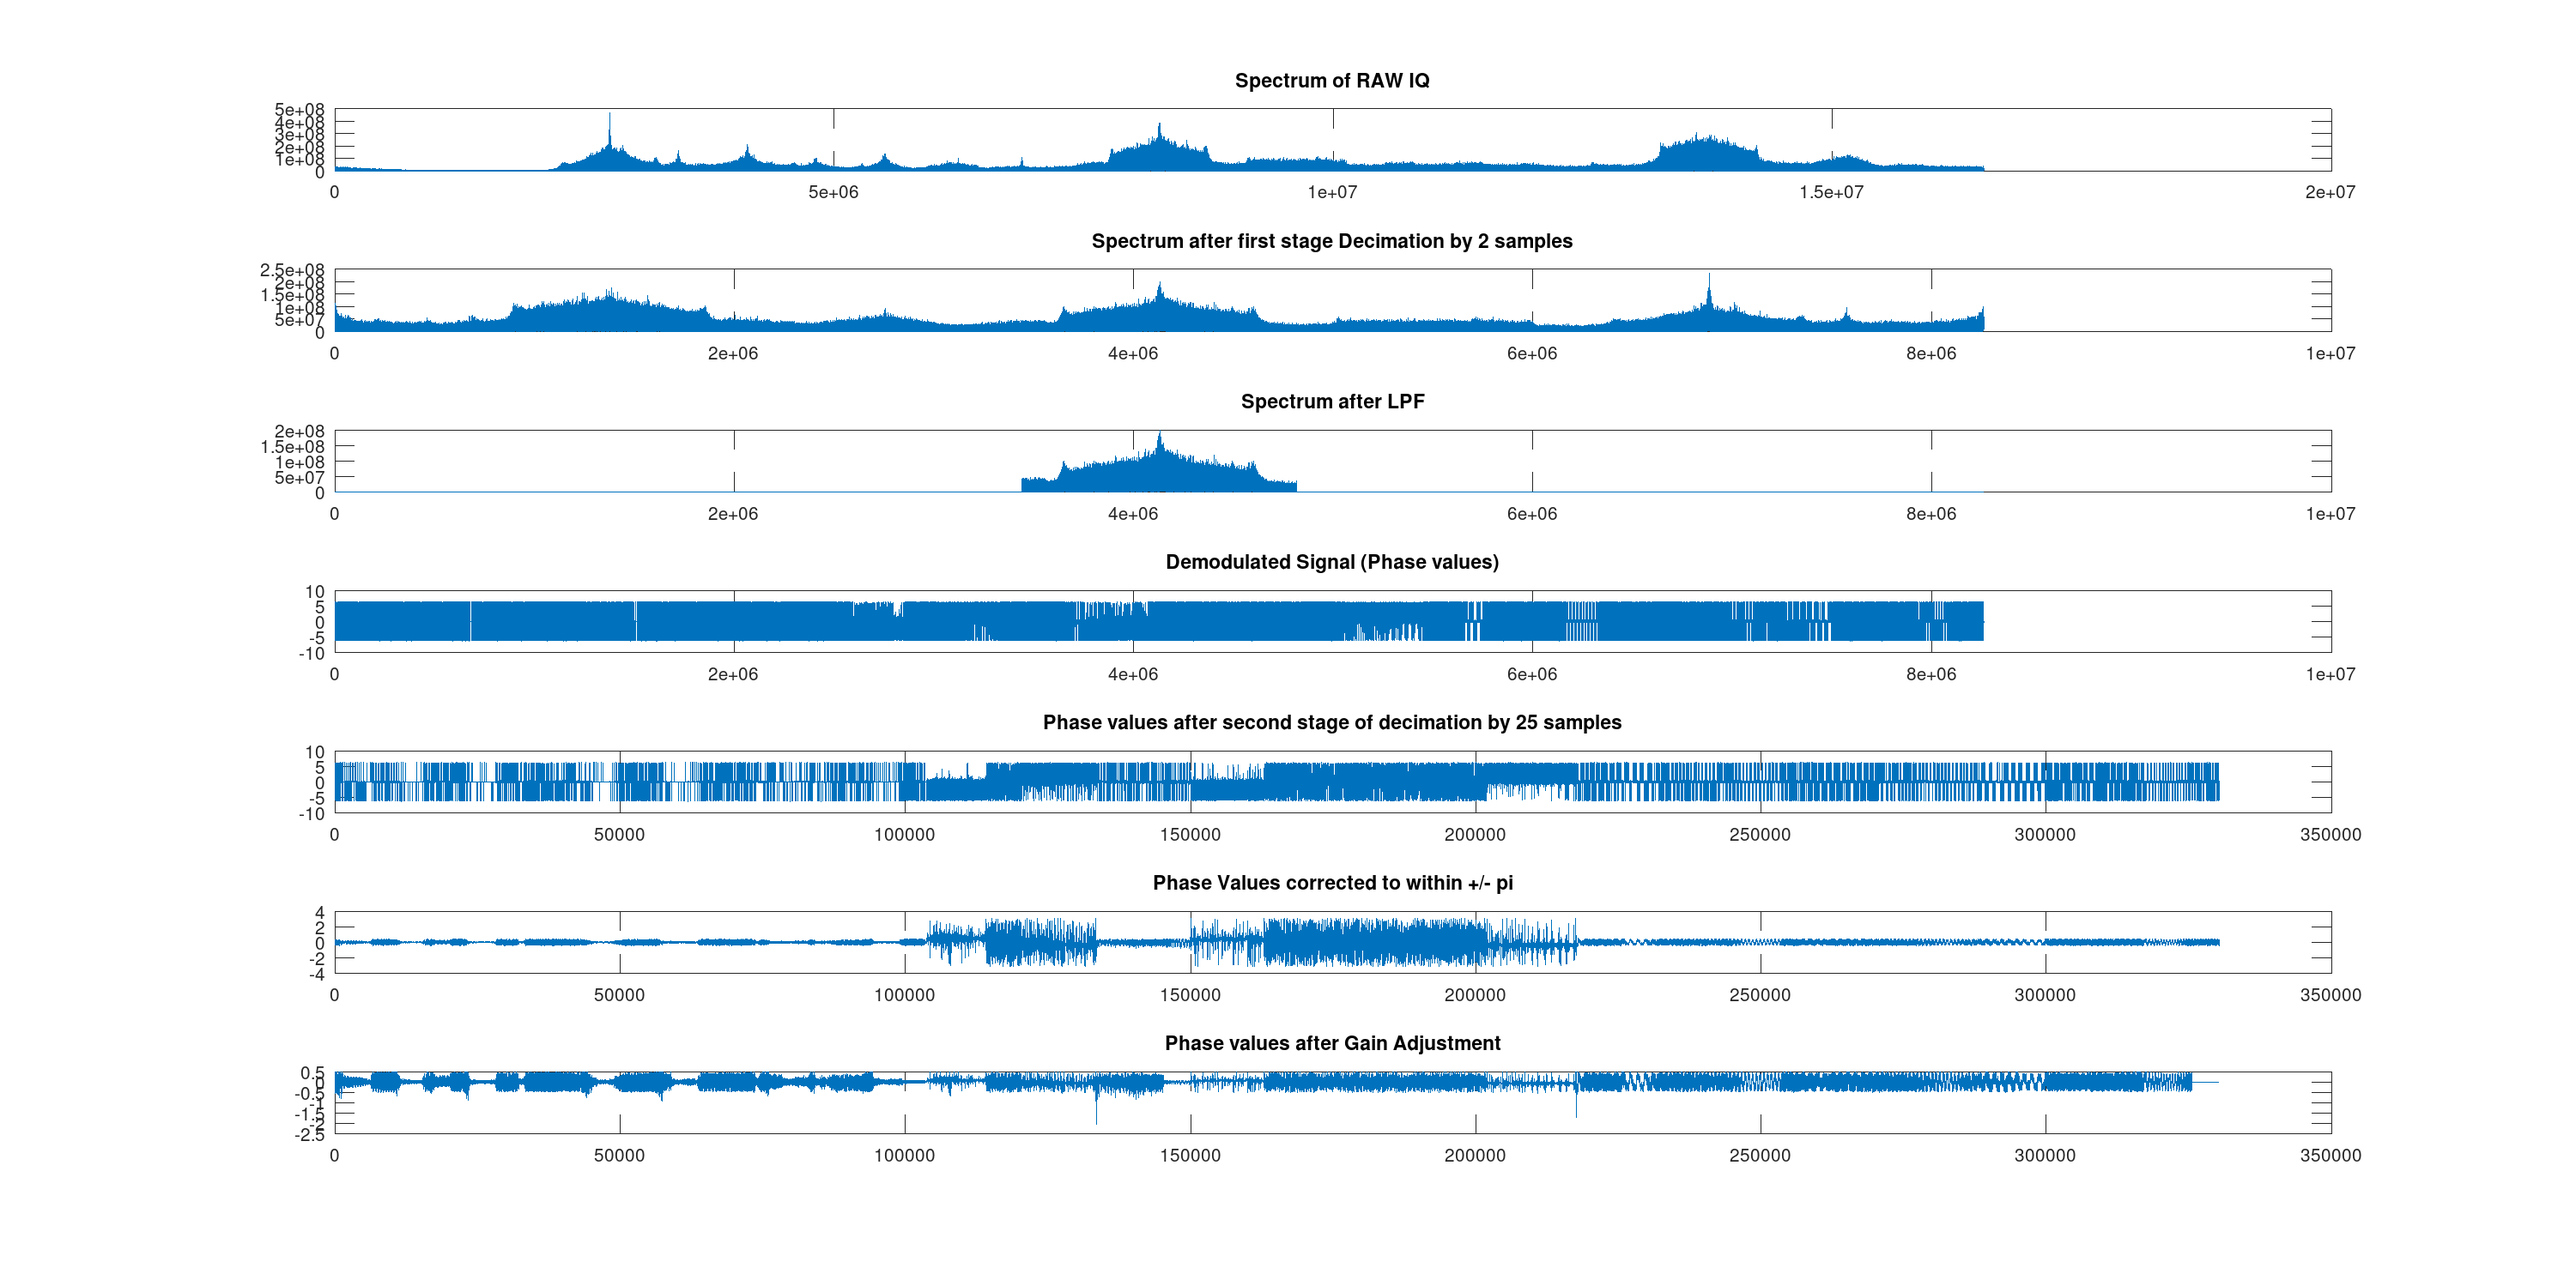
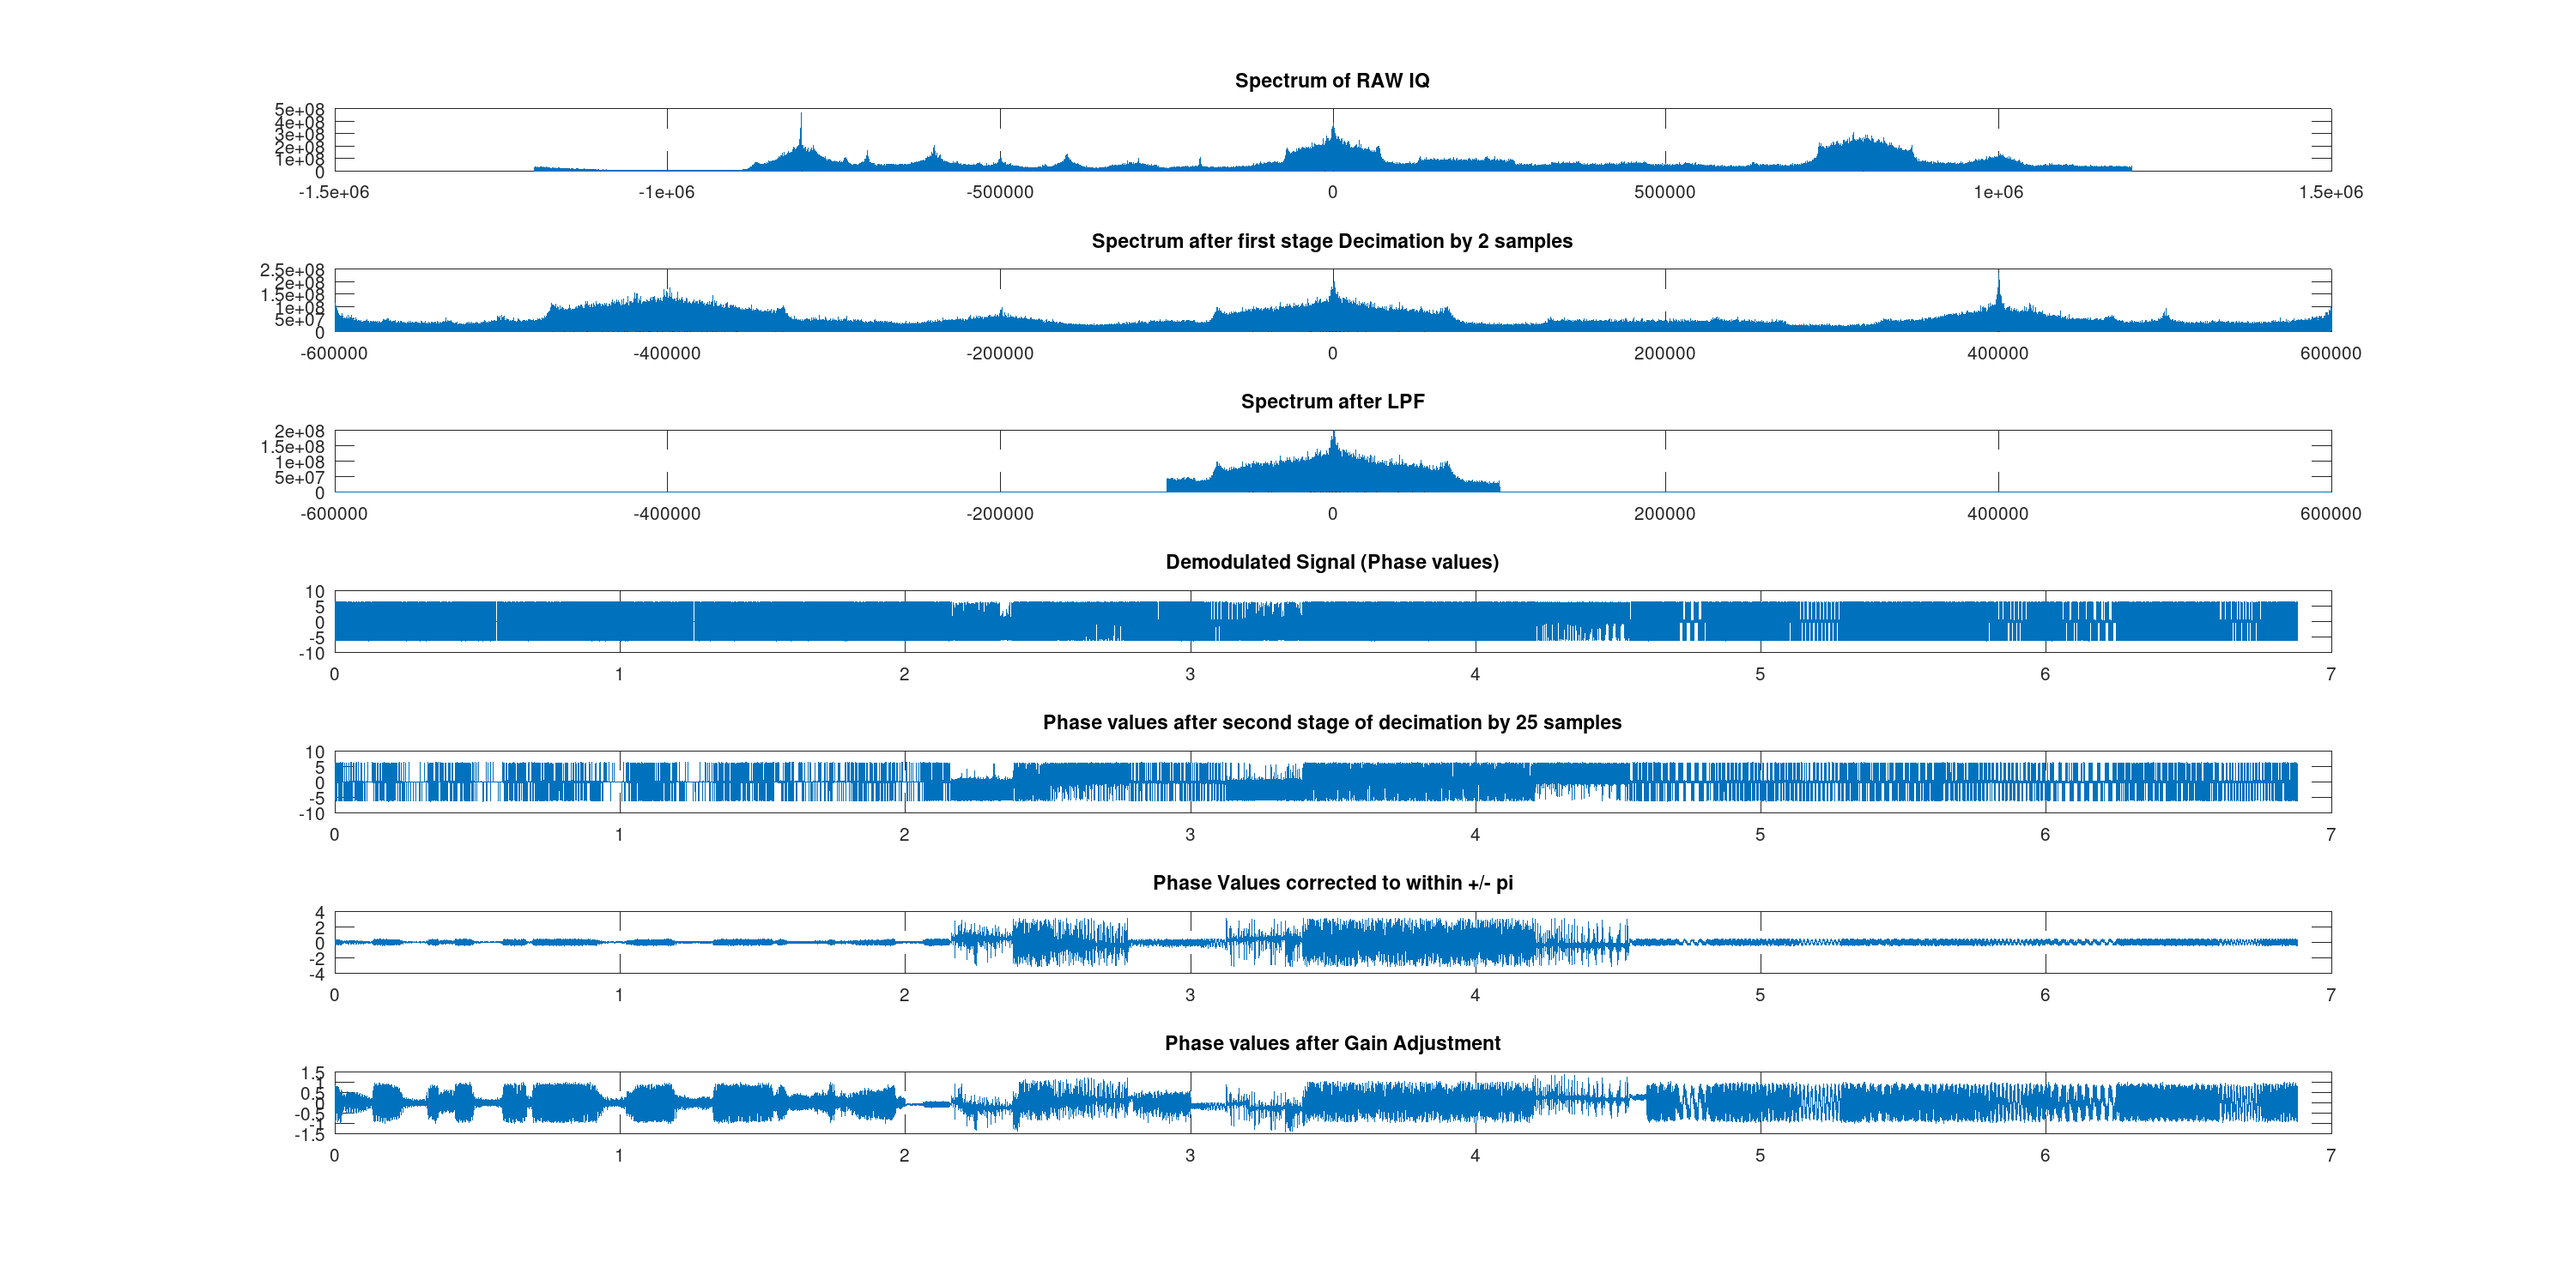
update

diff --git a/examples/octave/read_iq.m b/examples/octave/read_iq.m
@@ -14,8 +14,8 @@ end
 bw = 200e3;
 decimation = floor(rate_sampling/rate_audio)
 
-decimation_1 = decimation / 5;
-decimation_2 = decimation / 10;
+decimation_1 = decimation / 25;
+decimation_2 = decimation / 2;
 
 fid = fopen (filename, "r");
 val = fread(fid,"int16");
@@ -23,32 +23,35 @@ fclose (fid);
 x_i = val([1:2:end]);
 x_q = val([2:2:end]);
 xc = x_i + x_q*i;
-axis_f = linspace(0, rate_sampling, length(xc));
+axis_f = linspace(-rate_sampling/2, rate_sampling/2, length(xc));
 subplot(711)
-plot(abs(fftshift(fft(xc))));
+plot(axis_f, abs(fftshift(fft(xc))));
 title("Spectrum of RAW IQ");
 
 xc_down = xc([1:decimation_1:end]);
-
+axis_f = linspace(-rate_sampling/(decimation_1*2), rate_sampling/(decimation_1*2), length(xc_down));
 subplot(712)
-plot(abs(fftshift(fft(xc_down))));
+plot(axis_f, abs(fftshift(fft(xc_down))));
 title(sprintf ("Spectrum after first stage Decimation by %d samples", decimation_1));
 
 xc_base = fn_bpf(xc_down, bw/decimation_1, floor(rate_sampling/(decimation_1*2)), rate_sampling/decimation_1);
 subplot(713)
-plot(abs(fftshift(fft(xc_base))));
+plot(axis_f,abs(fftshift(fft(xc_base))));
 title("Spectrum after LPF");
 
 phi = arg(xc_base);
 phi_last = [phi(2:end);0];
 dphi = phi - phi_last;
+
+axis_t = linspace(0, length(dphi)/(rate_sampling/decimation_1), length(dphi));
 subplot(714);
-plot(dphi);
+plot(axis_t, dphi);
 title("Demodulated Signal (Phase values)");
 
 dphi_o = dphi([1:decimation_2:end]);
+axis_t = linspace(0, length(dphi_o)/(rate_sampling/decimation), length(dphi_o));
 subplot(715)
-plot(dphi_o)
+plot(axis_t, dphi_o)
 title(sprintf ("Phase values after second stage of decimation by %d samples", decimation_2));
 
 while (min(dphi_o) < -pi)
@@ -58,15 +61,14 @@ while (max(dphi_o) > pi)
   dphi_o = dphi_o - (dphi_o > pi) .* 2*pi;
 end
 subplot(716)
-plot(dphi_o)
+plot(axis_t, dphi_o)
 title("Phase Values corrected to within +/- pi");
-
-x_demod = dphi_o-mean(dphi_o);
-x_demod = fn_agc(x_demod, rate_audio/2);
+%x_demod = dphi_o-mean(dphi_o);
+x_demod = fn_agc(dphi_o, rate_audio/5);
+subplot(717)
+plot(axis_t, x_demod)
+title("Phase values after Gain Adjustment");
 player = audioplayer(x_demod, rate_audio);
 play (player);
-subplot(717)
-plot(0.5*x_demod)
-title("Phase values after Gain Adjustment");
 length(x_demod) / rate_audio
 

diff --git a/examples/octave/fn_agc.m b/examples/octave/fn_agc.m
@@ -1,8 +1,11 @@
-function y = fn_agc(x, fs)
-  n_frame = ceil(fs/5);
-  for i = 1:length(x)-n_frame
-    y(i) = x(i) ./ max(x(i:i+n_frame));
+function y = fn_agc(x, n_frame)
+  l = length(x)
+  ln_diff = length(x)-n_frame;
+  for i = 1:n_frame:ln_diff
+    x_t = x(i:i+n_frame);
+    y(i:i+n_frame) = x_t ./ max(abs(x_t)) - mean(x_t);
   endfor
-  y((length(x)-n_frame):length(x)) = x((length(x)-n_frame):length(x))./max((length(x)-n_frame):length(x));
+  x_t = x(ln_diff:end);
+  y(ln_diff:l) = x_t./max(abs(x_t)) - mean(x_t);
 end
 

diff --git a/examples/octave/test_fn_agc.m b/examples/octave/test_fn_agc.m
@@ -1,0 +1,13 @@
+clc;
+close all;
+clear all;
+
+x = [5.*rand(1, 1000), 10.* rand(1, 1000)];
+x = x-mean(x);
+y = fn_agc(x, 10);
+
+subplot(211);
+plot(x);
+
+subplot(212);
+plot(y);
